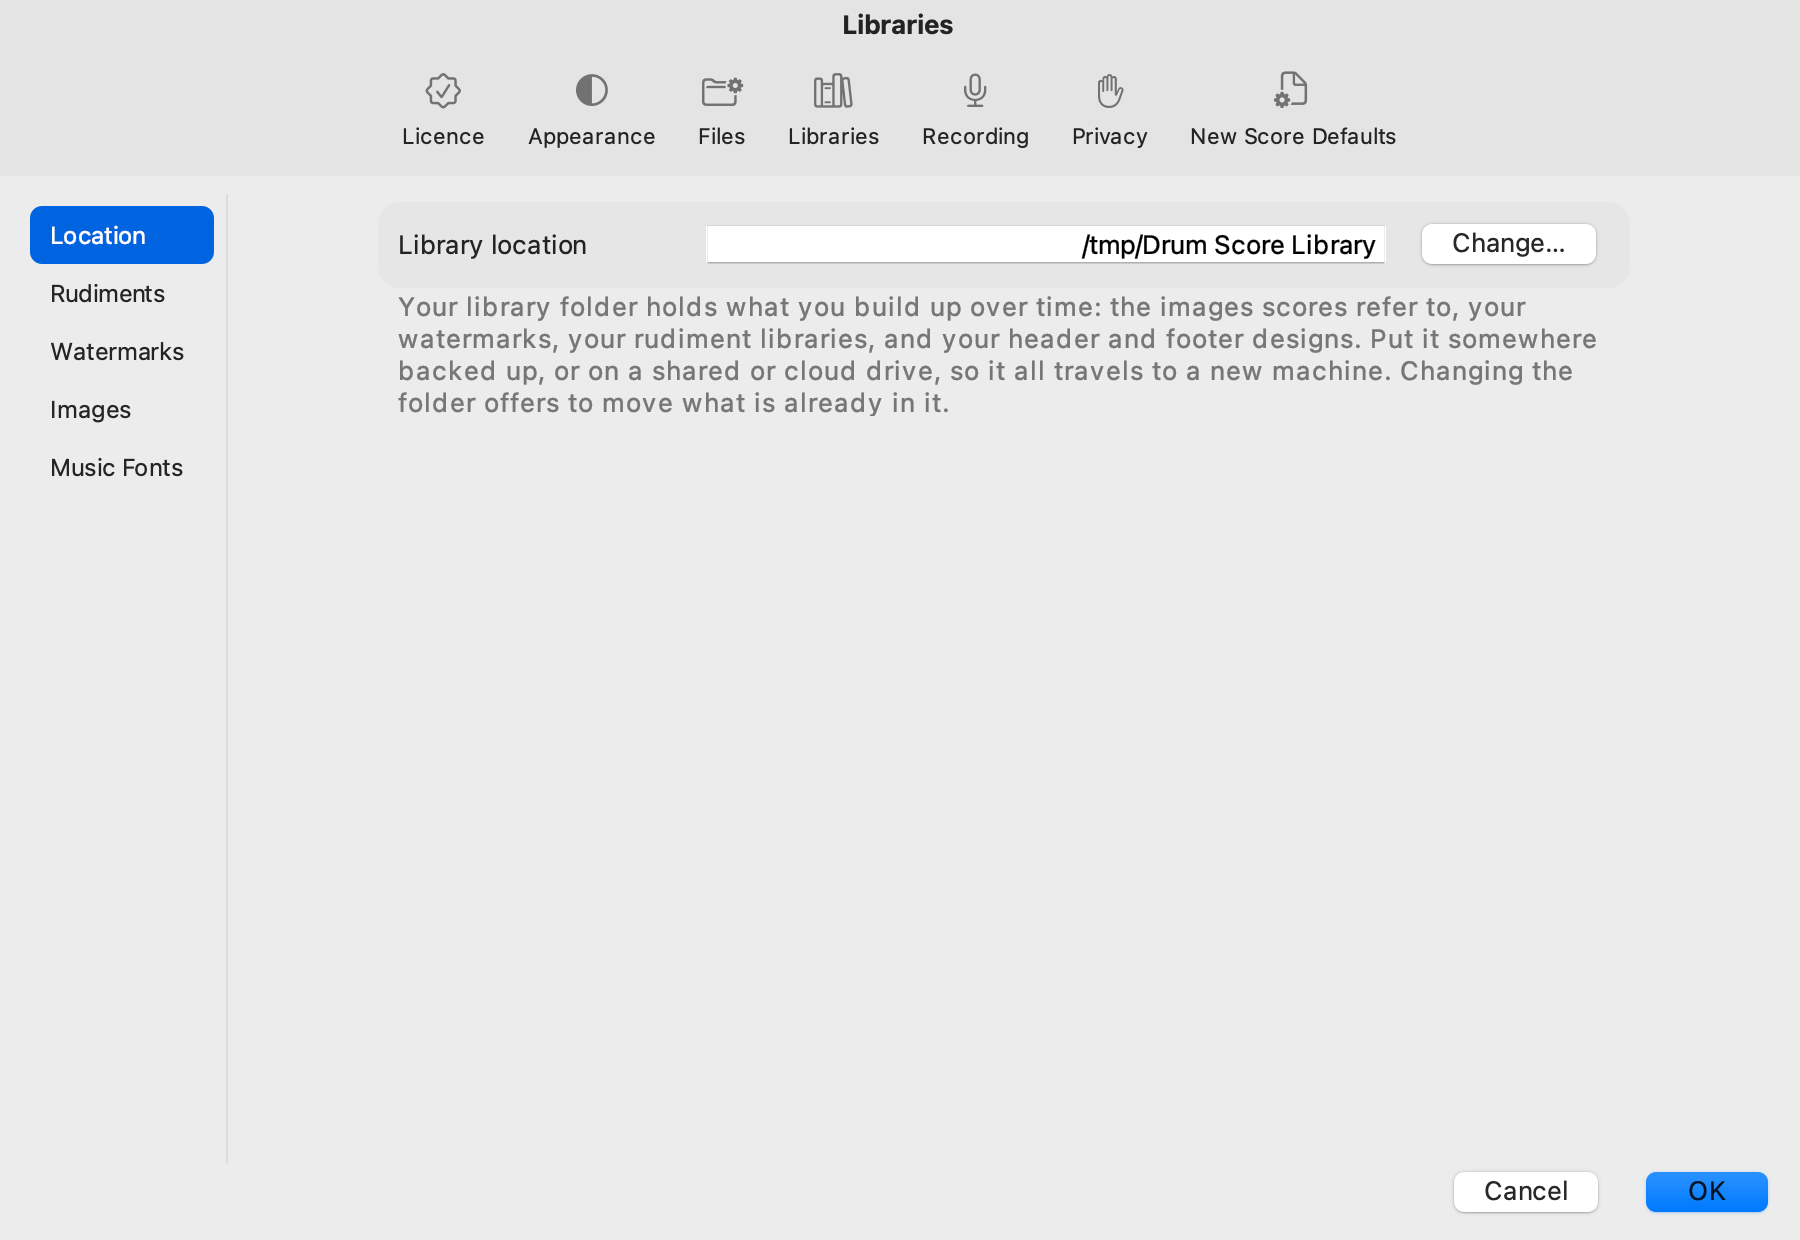
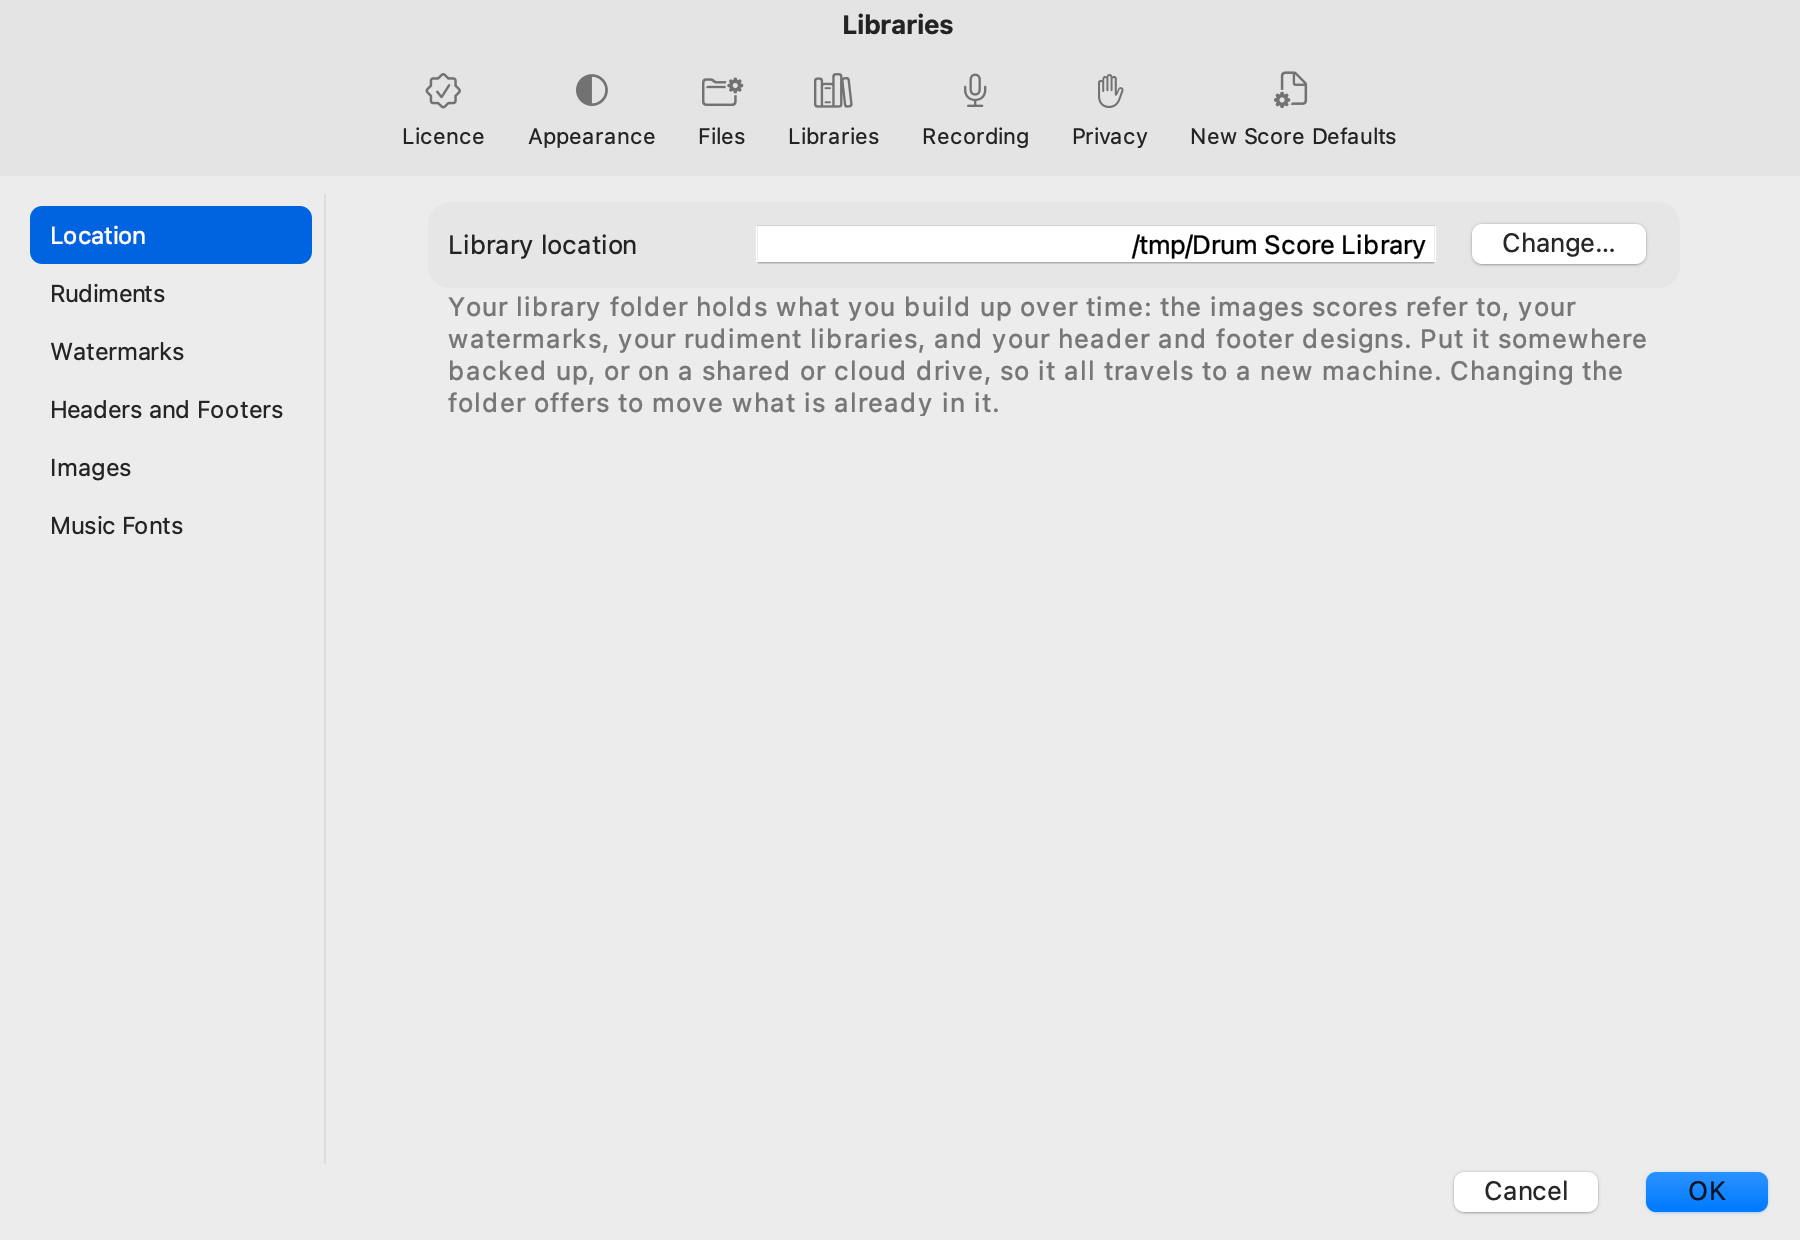
Saved designs: put any on an existing score, rename and remove them in Settings (editor #256, #854)
Claude-Session: https://claude.ai/code/session_01C1Ge6EDzSan1bZiKA9Avaa

diff --git a/en/v4/settings.md b/en/v4/settings.md
@@ -22,14 +22,14 @@ In the Studio Edition the sections run along the top. Where a section has more t
 | `Licence` | One pane |
 | `Appearance` | `Appearance`, `Language` |
 | `Files` | One pane |
-| `Libraries` | `Location`, `Rudiments`, `Watermarks`, `Images`, `Music Fonts` |
+| `Libraries` | `Location`, `Rudiments`, `Watermarks`, `Headers and Footers`, `Images`, `Music Fonts` |
 | `Recording` | `Microphone`, `Takes` |
 | `Privacy` | One pane |
 | `New Score Defaults` | `Score`, `Notation`, `Engraving`, `Page`, `Music Font`, `Unison`, `Watermark`, `Highlighters` |
 
 ### OK and Cancel
 
-Settings are written when you choose `OK`, and `Cancel` leaves them as they were. `Esc` is `Cancel`, and so is `Cmd+.` on a Mac. Three lists are the exception. Changes to your rudiment libraries, watermark pictures and music fonts are made at once, and `Cancel` does not undo them.
+Settings are written when you choose `OK`, and `Cancel` leaves them as they were. `Esc` is `Cancel`, and so is `Cmd+.` on a Mac. Four lists are the exception. Changes to your rudiment libraries, watermark pictures, header and footer designs and music fonts are made at once, and `Cancel` does not undo them.
 
 After `OK`, the paper, the ink and the theme change straight away. A new language, and some parts of a new theme, need a restart.
 
@@ -120,6 +120,21 @@ For using a library, see [Rudiments, Rolls and Tuplets](topic:rudiments).
 | `Rename…` | Gives the selected picture a new name. |
 
 Which picture new scores use is chosen under `New Score Defaults` ▸ `Watermark`. For putting a watermark on a score, see [Text and Headers](topic:text-and-headers).
+
+### Headers and Footers
+
+The pane lists the header designs and the footer designs you have saved. The design new scores are made with is marked in each list. Select a design to use the buttons.
+
+| Button | What it does |
+|---|---|
+| `Rename…` | Gives the selected design a new name. A name already in use is refused. A header design saved for both layouts is renamed for both. |
+| `Remove` | Deletes the selected design, after asking. Scores already made with it keep their headers and footers. |
+
+If the design you rename is the one new scores are made with, they go on using it under its new name. If you remove it, new scores go back to the `Built-in` header or footer.
+
+Designs are saved from a score, not here. See [Text and Headers](topic:text-and-headers).
+
+![Settings, Libraries, Headers and Footers: one header design and one footer design, each marked as the default](images/v4/settings-designs.png){: width="700" }
 
 ### Images
 

diff --git a/en/v4/text-and-headers.md b/en/v4/text-and-headers.md
@@ -143,7 +143,8 @@ When a header or footer is as you want it, keep it for other scores. While arran
 - A header design is saved for the general layout of the score it came from. A footer design suits either layout.
 - The first design you save becomes the one new scores are made with. After that, choose under `Settings` ▸ `New Score Defaults` ▸ `Score`, in `Headers and footers`. `Built-in` is the plain header or footer.
 - One score can be given a different design as it is made. See [Starting a Score](topic:new-score).
-- `Reset Header to Design` and `Reset Footer to Design` put the design that new scores are made with back onto this score. This is one step to undo.
+- `Reset Header to Design` and `Reset Footer to Design` put a saved design onto this score. Each opens a list of the designs saved for this score's layout: choose one. It replaces what the header or footer holds, on every tune's header, and is one step to undo. The time signature in a header is kept. With no design saved, the command says to save one first.
+- To rename or remove a saved design, go to `Settings` ▸ `Libraries` ▸ `Headers and Footers`. See [Settings](topic:settings).
 
 Saving a header again under a name you have already used replaces that name's header for that layout. One name can hold a header for each layout.
 
